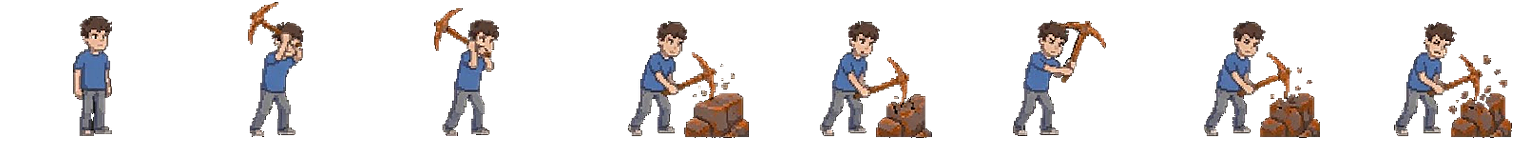
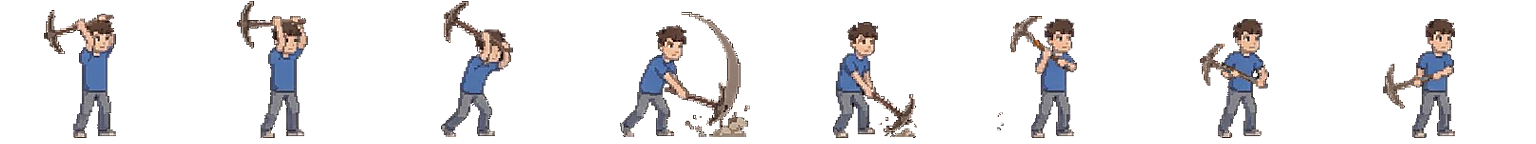
Ржавая кирка: анимация копки заменена на взмах стальной, перекрашенный в ржавчину
dig_pick_rusty.png не был анимацией копки тайла — это была одноразовая
сценка «разбить лежащий камень-валун» (стойка, занос, потом восемь ударов
по неподвижному валуну, который трескается и разлетается на обломки),
не зациклённая как взмах и без тайла на месте удара. Похоже, актив на
самом деле принадлежит сюжетной сцене «рюкзак» (там владелец отдельно
видел этот же разлетающийся камень) и был по ошибке переиспользован как
ряд копки (владелец: "когда он копает ржавой киркой анимация ужасная").

Фикс — не рисовать новую анимацию (генерации изображений нет), а взять
содержимое dig_pick.png (нормальный зацикленный взмах стальной кирки:
занос, удар со смазом и пылью у тайла, возврат) и перекрасить только
металл бойка в ржавый тон tools/rig_drill_recolor.py-приёмом (HSV,
насыщенность держит тени/блики, меняется только H/S). Цвет снят с
art/items/pickaxe_rusty.png — но БЕЗ исключения "деревянных" оттенков
0..70°/345..360°, которым пользуется rig_drill_recolor: там головка и
рукоять этой кирки нарисованы ОДНИМ ржавым цветом, и исключение выкинуло
бы саму ржавчину.

Маска "это боёк" — ахроматичность (как у бура) плюс подобранный по
кадру прямоугольник (боёк описывает дугу взмаха и никогда не пересекает
прямоугольник ног героя, которые почти не двигаются между кадрами) —
см. докстринг tools/recolor_dig_pick_rusty.py. Все восемь кадров
проверены агентом по отдельности (рендер компонент + финальный результат):
маска не задевает штаны/рубашку/кожу/волосы ни на одном.
[…]

diff --git a/tools/recolor_dig_pick_rusty.py b/tools/recolor_dig_pick_rusty.py
@@ -1,0 +1,210 @@
+#!/usr/bin/env python3
+"""recolor_dig_pick_rusty.py — ржавая анимация копки кирки из стальной.
+
+Задача владельца (дословно): «когда он копает ржавой киркой анимация
+ужасная, скопируй анимацию как у железной кирки, только сделай её ржавой».
+
+ЧТО БЫЛО НЕ ТАК. art/character/boy/dig_pick_rusty.png (и его плоская копия
+art/character/dig_pick_rusty.png, по которой лист реально ищет рендерер —
+см. ниже про OUT_FLAT) — 8 кадров 192×144,
+см. scripts/player/character_view.gd SHEET_FRAME["dig_pick_rusty"]) — вовсе
+не анимация копки тайла. Это отдельная одноразовая сценка «разбить лежащий
+камень-валун»: герой стоит (кадр 0), заносит кирку (1-2) и бьёт по
+НЕПОДВИЖНОМУ камню на земле, который трескается и разлетается на обломки
+(3-7) — камня в обычной копке нет, и последовательность не зациклена как
+взмах. Похоже, актив на самом деле принадлежит сюжетной сцене «рюкзак»
+(там владелец отдельно видел этот же разлетающийся камень) и был по ошибке
+переиспользован как ряд копки. dig_pick.png (стальная кирка) — наоборот,
+нормальный зацикленный взмах: занос (0-2), удар с смазом и пылью у тайла
+(3), возврат (4-7).
+
+ФИКС. Не рисуем новую анимацию (генерации изображений нет) — берём
+СОД�ержимое кадров dig_pick.png как есть (тот самый хороший взмах) и красим
+только металл бойка в ржавый тон, целиком оставляя позы, смаз и пыль. Результат
+кладём поверх dig_pick_rusty.png — тем самым ржавая кирка копает так же, как
+стальная, только цветом ржавая, как и просил владелец.
+
+ЦВЕТ. В отличие от tools/rig_drill_recolor.py (там голова кирки — чистый
+цветной металл, а рукоять — отдельный нейтральный "деревянный" оттенок,
+который можно исключить по Hue), у art/items/pickaxe_rusty.png ГОЛОВКА И
+РУКОЯТЬ нарисованы ОДНИМ ржавым цветом (инструмент весь трухлявый) — если
+взять оттуда фильтр "выкинуть дерево 0..70°/345..360°", он выкинет и саму
+ржавчину (она тоже в этом диапазоне) и оставит для взвешивания только шум
+на краях спрайта. Поэтому здесь свой _rusty_reference_hsv: то же взвешенное
+по насыщенности круговое среднее Hue (см. докстринг rig_drill_recolor.
+_pickaxe_metal_hsv), но БЕЗ исключения по Hue — на pickaxe_rusty.png нет
+отдельной нейтральной рукояти, которую нужно было бы отсеивать.
+
+МАСКА «ЭТО БОЁК». У dig_pick.png простой ахроматичный порог (см.
+rig_drill_recolor._achromatic) сам по себе ловит не только стальной боёк, но
+и серые штаны/ботинки героя — оба региона проверены напрямую по пикселям и
+дают похожий (8..15) размах max-min RGB, различить их только по цвету
+нельзя. Боёк при этом на каждом кадре — единственный представитель этого
+цвета В СВОЁМ прямоугольнике кадра: кирка описывает дугу взмаха (кадры 0-2 —
+занесена над головой слева, 3 — смаз+удар справа у тайла, 4-7 — опускается и
+возвращается у бедра), и её положение НЕ пересекается по прямоугольнику с
+ногами героя, которые почти не двигаются между кадрами (силуэт ног/обуви на
+всех восьми кадрах лежит в x≈40..115, y≈63..137 — см. отчёт агента,
+прямоугольники по scipy.ndimage.label). Поэтому маска — тот же приём, что и
+у rig_drill_recolor._side_drill_mask: ахроматичность И «в прямоугольнике,
+где в этом конкретном кадре сейчас боёк» (см. FRAME_ZONES ниже, подобраны
+по кадрам — см. отчёт агента с покомпонентной раскраской, там же зоны
+проверены на отсутствие пересечения с ногами, лицом и волосами на всех
+восьми кадрах). На кадре 3 в эту же зону попадает и смазанная дуга взмаха
+(она рисуется тем же серым металлом и физически смыкается с бойком в точке
+удара) — она красится вместе с бойком: на самых ярких пикселях дуги общая
+кривая насыщенности (см. rig_drill_recolor._recolor_pixels) и так сводит
+насыщенность почти к нулю, так что дуга остаётся бледной, просто с тёплым
+оттенком, как и должно быть у смаза.
+
+Маска — приближение, не идеальная посегментная вырезка (тот же допуск, что
+и в rig_drill_recolor: единичные пиксели пыли/камня у бойка на кадре 3-4
+попадают в маску и красятся заодно — это мелкий рассеянный шум у самого
+бойка, а не пятно на одежде/коже, и на телефонном экране не отличим от
+самого бойка). Каждый из восьми кадров проверен агентом по отдельности
+(рендер с подсвеченными компонентами) на то, что маска не задевает штаны,
+рубашку, кожу или волосы ни на одном кадре.
+
+Запуск:  python3 tools/recolor_dig_pick_rusty.py
+"""
+
+import os
+import sys
+
+import numpy as np
+from PIL import Image
+
+ROOT = os.path.dirname(os.path.dirname(os.path.abspath(__file__)))
+CHAR_DIR = os.path.join(ROOT, "art", "character", "boy")
+CHAR_FLAT_DIR = os.path.join(ROOT, "art", "character")
+ITEMS_DIR = os.path.join(ROOT, "art", "items")
+
+SRC = os.path.join(CHAR_DIR, "dig_pick.png")
+OUT = os.path.join(CHAR_DIR, "dig_pick_rusty.png")
+# см. tools/import_dig.py, конец main(): "герой ищется рендерерами в
+# art/character/" — CharacterView._ready грузит лист по фиксированному пути
+# "res://art/character/" + имя + ".png" БЕЗ поддиректории "boy", так что
+# правленный лист нужно положить туда же, не только в art/character/boy/
+# (там же лежит исходный dig_pick.png, которым правится этот файл, и его
+# читают другие импортёры, поэтому boy/-копия тоже остаётся).
+OUT_FLAT = os.path.join(CHAR_FLAT_DIR, "dig_pick_rusty.png")
+REF = os.path.join(ITEMS_DIR, "pickaxe_rusty.png")
+
+FRAME_W, FRAME_H, FRAMES = 192, 144, 8
+
+sys.path.insert(0, os.path.dirname(os.path.abspath(__file__)))
+from rig_drill_recolor import _rgb_to_hsv_np, _hsv_to_rgb_np, _achromatic  # noqa: E402
+
+# ---------------------------------------------------------------------------
+# Зона «здесь сейчас боёк» по каждому из 8 кадров взмаха dig_pick.png —
+# подобрана по РАСПОЛОЖЕНИЮ (см. докстринг файла), проверена рендером с
+# раскрашенными связными компонентами (отчёт агента): в каждом прямоугольнике
+# лежит ровно боёк (плюс на кадре 3 — смазанная дуга удара, физически с ним
+# слитая), ни разу нога/ботинок/лицо/волосы героя, чей силуэт в этих кадрах
+# держится в x≈40..115, y≈63..137 и ни в одну из зон не заходит.
+# (x0, x1, y0, y1) — полуоткрытые по x1/y1, как срез numpy.
+# ---------------------------------------------------------------------------
+FRAME_ZONES = [
+    (38, 72, 4, 58),      # 0: занесена над головой слева
+    (38, 68, 0, 53),      # 1: занесена выше
+    (52, 90, 0, 47),      # 2: начало взмаха вниз-вправо
+    (102, 172, 6, 131),   # 3: удар — боёк + смазанная дуга у тайла
+    (104, 152, 88, 140),  # 4: у самой земли, отдача
+    (44, 82, 10, 55),     # 5: подъём от бедра
+    (43, 89, 37, 88),     # 6: возврат, кирка на уровне груди
+    (34, 75, 57, 113),    # 7: почти в исходном положении
+]
+
+# Опорная светлота бойка ДО перекраски (среднее V маски бойка на кадре 0,
+# см. отчёт агента) — знаменатель масштаба V в _recolor_pixels, тот же
+# приём, что и DRILL_BASE_V в rig_drill_recolor.
+PICK_BASE_V = 0.523
+
+
+def _rect_zone(shape, x0, x1, y0, y1):
+    m = np.zeros(shape, dtype=bool)
+    m[y0:y1, x0:x1] = True
+    return m
+
+
+def _rusty_reference_hsv(path):
+    """Оттенок/насыщенность/светлота ржавого металла с pickaxe_rusty.png.
+
+    Тот же взвешенный по насыщенности круговой приём, что и
+    rig_drill_recolor._pickaxe_metal_hsv, но БЕЗ исключения "деревянных"
+    оттенков 0..70°/345..360°: на этой иконке головка и рукоять — один и тот
+    же ржавый цвет (см. докстринг файла), исключение по Hue выбросило бы
+    саму ржавчину, а не дерево.
+    """
+    im = Image.open(path).convert("RGBA")
+    arr = np.array(im)
+    a = arr[..., 3]
+    h, s, v = _rgb_to_hsv_np(arr[..., :3])
+    keep = a > 10
+    h_k, s_k, v_k = h[keep], s[keep], v[keep]
+    sin_sum = float(np.sum(s_k * np.sin(h_k * 2 * np.pi)))
+    cos_sum = float(np.sum(s_k * np.cos(h_k * 2 * np.pi)))
+    mean_h = (np.arctan2(sin_sum, cos_sum) / (2 * np.pi)) % 1.0
+    s_sum = float(np.sum(s_k))
+    mean_s = float(np.sum(s_k * s_k) / s_sum) if s_sum > 1e-9 else 0.0
+    mean_v = float(np.mean(v_k)) if v_k.size else 0.5
+    return mean_h * 360.0, mean_s, mean_v
+
+
+def _pick_mask(frame, zone_rect):
+    ach = _achromatic(frame)
+    zone = _rect_zone(ach.shape, *zone_rect)
+    return ach & zone
+
+
+def _recolor_pixels(arr, mask, target_h_deg, target_s, target_v):
+    """Красит пиксели под маской в ржавый металл.
+
+    Тот же приём, что и rig_drill_recolor._recolor_pixels (держит V как
+    масштаб, не как замену — тени и блики бойка остаются на месте, просто
+    вся шкала светлот сдвигается к ржавчине; насыщенность модулирована по
+    собственной яркости пикселя). Переписан локально, а не импортирован,
+    потому что там масштаб V завязан на DRILL_BASE_V бура, а у бойка кирки
+    своя опорная светлота — PICK_BASE_V (см. её докстринг)."""
+    out = arr.copy()
+    if not np.any(mask):
+        return out
+    region = arr[mask][..., :3]
+    _, _, v = _rgb_to_hsv_np(region.reshape(1, -1, 3))
+    v = v.reshape(-1)
+    target_h = (target_h_deg / 360.0) % 1.0
+    sat_curve = np.clip(1.25 - v, 0.45, 1.35)
+    new_s = np.clip(target_s * sat_curve, 0.0, 1.0)
+    new_h = np.full_like(v, target_h)
+    v_scale = np.clip(target_v / PICK_BASE_V, 0.5, 1.4)
+    new_v = np.clip(v * v_scale, 0.03, 1.0)
+    new_rgb = _hsv_to_rgb_np(new_h, new_s, new_v)
+    out_rgb = out[..., :3]
+    out_rgb[mask] = new_rgb
+    return out
+
+
+def main():
+    target_h, target_s, target_v = _rusty_reference_hsv(REF)
+    print("ржавый металл (с pickaxe_rusty.png): H=%.1f S=%.3f V=%.3f"
+          % (target_h, target_s, target_v))
+
+    im = Image.open(SRC).convert("RGBA")
+    sheet = np.array(im)
+    out = sheet.copy()
+    for i in range(FRAMES):
+        x0 = i * FRAME_W
+        frame = sheet[:, x0:x0 + FRAME_W]
+        mask = _pick_mask(frame, FRAME_ZONES[i])
+        out[:, x0:x0 + FRAME_W] = _recolor_pixels(
+            frame, mask, target_h, target_s, target_v)
+        print("  кадр %d: перекрашено %d px" % (i, int(mask.sum())))
+
+    Image.fromarray(out).save(OUT)
+    print("-> %s" % OUT)
+    Image.fromarray(out).save(OUT_FLAT)
+    print("-> %s (копия для рендерера, см. комментарий у OUT_FLAT)" % OUT_FLAT)
+
+
+if __name__ == "__main__":
+    sys.exit(main())
